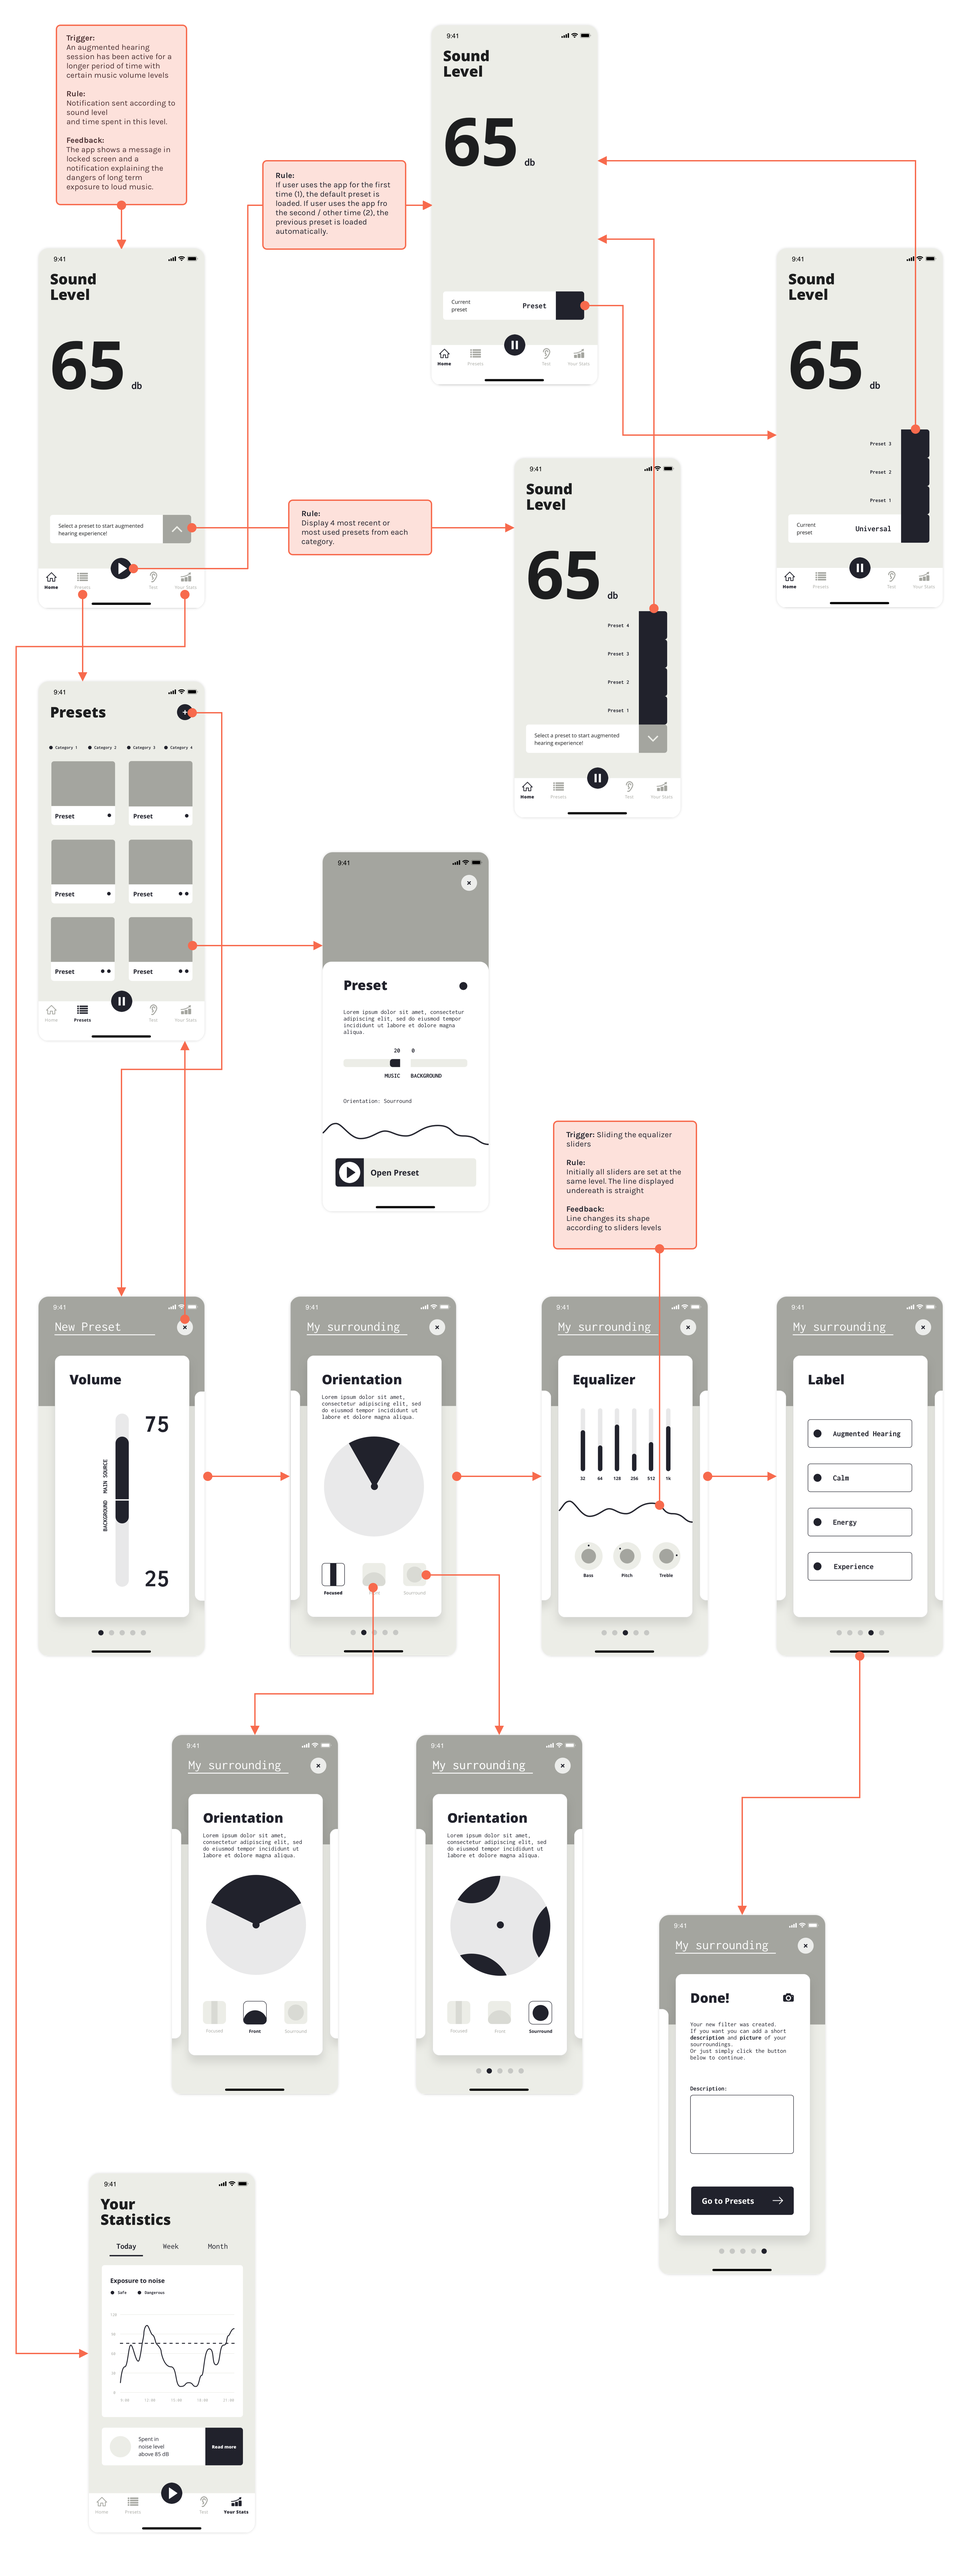
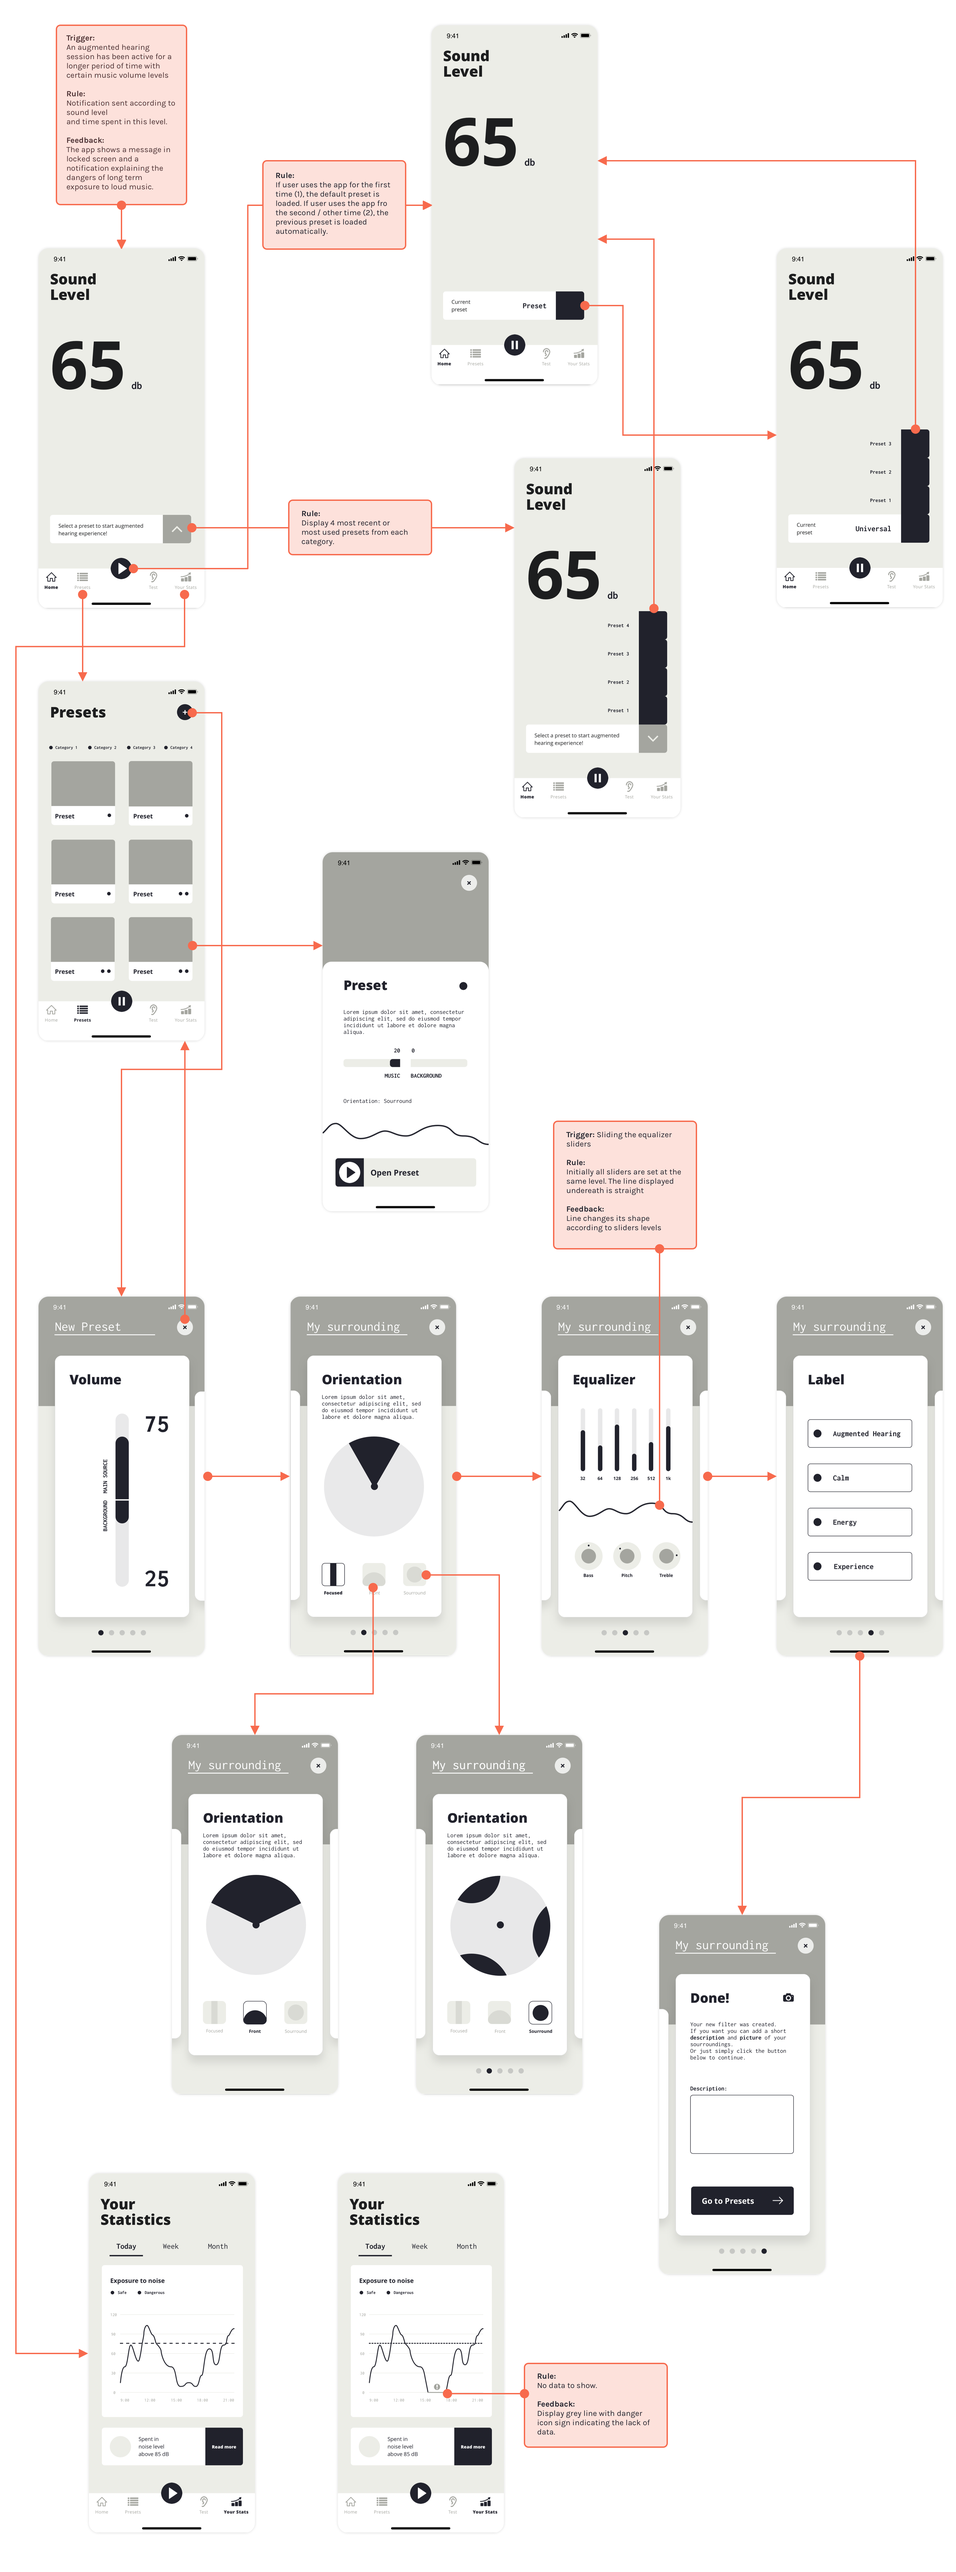
statistics screens

diff --git a/src/Home/Home.js b/src/Home/Home.js
@@ -15,6 +15,16 @@ class Home extends Component {
       <div className="App">
         <Hello />
         <div className="gridContainer">
+          <Link to="/augmentedHearing">
+          <Project title="Augmented Hearing" image={require("../assets/img/AH/web.png")}
+          className="gridCellCentered"
+          description="Augmented hearing app created as a digital tool to interact with a hearing aid."
+          keywords="UI, UX, Concept, Prototyping"
+          history={this.props.history}
+          redirect="augmentedHearing"
+          />
+          </Link>
+
           <Link to="/sunwise">
           <Project title="SunWise" image={require("../assets/img/SunWise/sunwise-main1.png")}
           className="gridCellCentered"
@@ -25,15 +35,6 @@ class Home extends Component {
           />
           </Link>
 
-          <Link to="/augmentedHearing">
-          <Project title="Augmented Hearing" image={require("../assets/img/AH/web.png")}
-          className="gridCellCentered"
-          description="Augmented hearing app created as a digital tool to interact with a hearing aid."
-          keywords="UI, UX, Concept, Prototyping"
-          history={this.props.history}
-          redirect="augmentedHearing"
-          />
-          </Link>
         </div>
 
         <div className="gridContainer">

diff --git a/src/ProjectAH/ProjectAH.js b/src/ProjectAH/ProjectAH.js
@@ -62,6 +62,15 @@ that it displays statistics about user's time spent in loud environments and hea
           </div>
         </div>
 
+
+        <div className="margin80"><h2 className="title">Statistics</h2></div>
+        <div className="margin40 row cardsFlowBg">
+          <img src={require("./../assets/img/AH/statistics-animation.gif")} className="prototypeImg gifImgBorder"/>
+
+            <img src={require("./../assets/img/AH/statistics-1.png")} className="prototypeImg gifImgBorder"/>
+
+        </div>
+
       </div>
     )
   }
